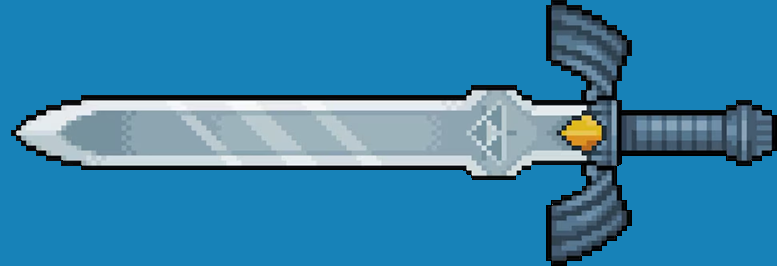
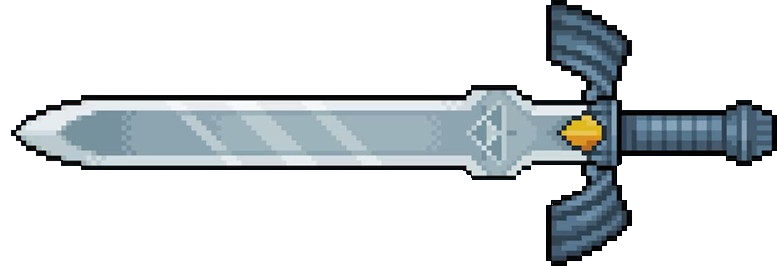
remove background and change the ammo left show

diff --git a/client/arsenal.py b/client/arsenal.py
@@ -3,6 +3,8 @@ from typing import Any
 import pygame
 import math
 from functools import cache
+
+from client import game
 from weapon_anim import WeaponAnim
 
 # need to add bullet class (new TTL - time to live of the bullet - need to despond after some time every gun will be having different ttl )
@@ -12,7 +14,7 @@ class Arsenal:
     Arsenal_gunType = {  # image directory & ttl of the bullet & relative offset from the player
         "Ak 47": ("arsenal-images/guns/Ak 47.png",
                  12,
-                 "AK-7_bullet",
+                 "AK 47 bullet",
                  "not fixed",
                  (0, 27),  # relative offset from the player
                  120,  # scale
@@ -44,7 +46,7 @@ class Arsenal:
         "Assault rifle":
                 ("arsenal-images/guns/Assault rifle.png",
                  24,
-                  "AK-7_bullet",
+                  "AK 47 bullet",
                   "not fixed",
                   (10, 35),  # relative offset from the player
                   130,  # scale
@@ -55,7 +57,7 @@ class Arsenal:
         "Pistol":
             ("arsenal-images/guns/Pistol.png",
              12,
-             "AK-7_bullet",
+             "AK 47 bullet",
              "not fixed",
              (15, 25),  # relative offset from the player
              100,  # scale
@@ -88,7 +90,6 @@ class Arsenal:
             x = i * frame_w
             frame = pygame.Surface((frame_w, sheet_h), pygame.SRCALPHA).convert_alpha()
             frame.blit(sheet, (0, 0), (x, 0, frame_w, sheet_h))
-            frame.set_colorkey((23, 130, 184))  # אותו colorkey כמו אצלך
             out.append(frame)
 
         return out
@@ -104,7 +105,6 @@ class Arsenal:
             Arsenal.Arsenal_gunType[gun_type]
         
         self.weapon_img = Arsenal.get_weapon_img(gun_type)
-        self.weapon_img.set_colorkey((23, 130, 184))
         self.smaller_v = pygame.transform.scale(self.weapon_img, (30, 30))
         self.offset_x, self.offset_y = coordinates
 
@@ -276,39 +276,27 @@ class Arsenal:
 
         if not self.bullet == "null":
             bullet_left = self.mag
-            numLs = []
-            while bullet_left > 0:
-                numLs.append(bullet_left % 10)
-                bullet_left //= 10
-
-            if len(numLs) == 0:
-                numLs = [0]
 
             offset_x = 0
 
-            for num in numLs:
-                img_num = pygame.image.load(
-                    "numbers-image/" + f"{num}.png").convert_alpha()
-                img_num.set_colorkey((23, 130, 184))
-                img_num = pygame.transform.scale(img_num, (17, 18))
-
-                self.display.blit(img_num, (x + offset_x, y))
-                offset_x -= img_num.get_width()
-
-            offset_x -= 10
-
+            font = pygame.font.SysFont(None, 36)
+            bullet_left_txt = font.render(str(bullet_left), True, 'black')
+            x -= bullet_left_txt.get_width()
+            game.SCREEN.blit(bullet_left_txt, (x + offset_x, y))
+            x-=10
             img_bullet = pygame.image.load(
                 "arsenal-images/bullets/" + f"{self.bullet}.png").convert_alpha()
-            img_bullet.set_colorkey((23, 130, 184))
 
             img_bullet = pygame.transform.rotate(img_bullet, 90 * 3)
 
             w, h = img_bullet.get_size()
-            scale = 15
+            if self.bullet=="arrow": scale = 10
+            else: scale = 15
+
             img_bullet = pygame.transform.scale(
                 img_bullet, (scale, int(h * (scale / w))))
 
-            self.display.blit(img_bullet, (x + offset_x, y - 15))
+            self.display.blit(img_bullet, (x-img_bullet.get_width()+5 + offset_x, y - 15))
             return
         else:
             weapon_img = self.weapon_img

diff --git a/client/bullets.py b/client/bullets.py
@@ -26,13 +26,13 @@ class Bullets:
     BulletLS = []
 
     bullet_types = {
-        "AK-7_bullet": (
-            pygame.image.load("arsenal-images/bullets/AK-7_bullet.png").convert_alpha(),
+        "AK 47 bullet": (
+            pygame.image.load("arsenal-images/bullets/AK 47 bullet.png").convert_alpha(),
             (-15, 15),  # relative offset from the player
             20,  # ttl
             25,  # speed
             2,  # damage
-            0.2  # scale
+            0.1 #scale
         ),
         "arrow": (
             pygame.image.load("arsenal-images/bullets/arrow.png").convert_alpha(),
@@ -63,8 +63,8 @@ class Bullets:
         # Scale and set transparency
         w, h = self.image_bullet.get_size()
         self.image_bullet = pygame.transform.scale(
-            self.image_bullet, (int(w * self.scale), int(h * self.scale)))
-        self.image_bullet.set_colorkey(blue)
+        self.image_bullet, (int(w * self.scale), int(h * self.scale)))
+
         self.image_bullet = pygame.transform.flip(self.image_bullet, True, False)
         self.rect = self.image_bullet.get_rect()
         if from_network:

diff --git a/client/player.py b/client/player.py
@@ -1,11 +1,10 @@
 from helth import HealthBar
 from inventory import *
-from bullets import *
+from client.arsenal import Arsenal
 from bullets import Bullets
+from zone_connection import *
 from game import *
-from zone_connection import ZoneConnectionSingleton
 from mapset import *
-from arsenal import Arsenal
 from inventory import *
 from bullets import *
 from shop import ShopUI
@@ -154,15 +153,12 @@ class Player(pygame.sprite.Sprite):
                                 from_network=False,
                             )
 
-
-
                         self.current_Weapon().mag -= 1
-                        ZoneConnectionSingleton().zone.try_send_bullet(self.current_Weapon().get_name(), bullet.angle, 1)
+                        print("1")
+                        #ZoneConnectionSingleton().zone.try_send_bullet(self.current_Weapon().get_name(), bullet.angle, 1)
                         Bullets.BulletLS.append(bullet)
             except:
                 print("error")
-            if self.current_Weapon().gun_type == "domain_expansion":
-                Domain_Expansion.run(self)
 
 
 

diff --git a/client/shop.py b/client/shop.py
@@ -21,7 +21,7 @@ class ShopUI:
 
         #  bullet_name -- (price, amount)
         self.ammo_packs = {
-            "AK-7_bullet": (15, 5),
+            "AK 47 bullet": (15, 5),
             "arrow": (10, 10)
         }
 

diff --git a/client/game.py b/client/game.py
@@ -1,6 +1,5 @@
 # the main game loop
 # basic rejister and login loop
-from entity import Entities
 import protobuf.region_net_pb2 as region_net
 import pygame, sys
 from mapset import *
